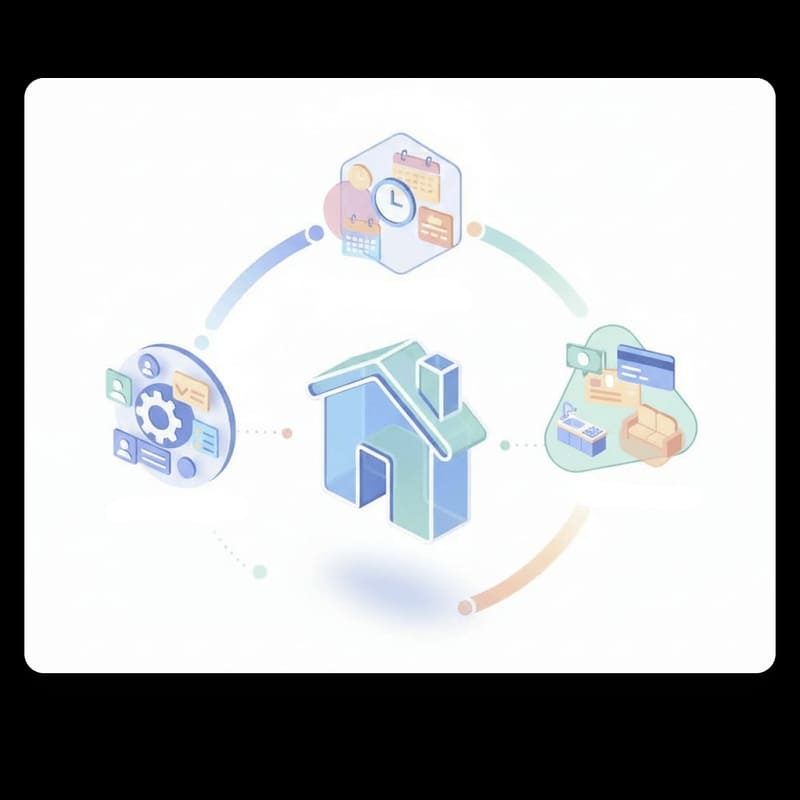
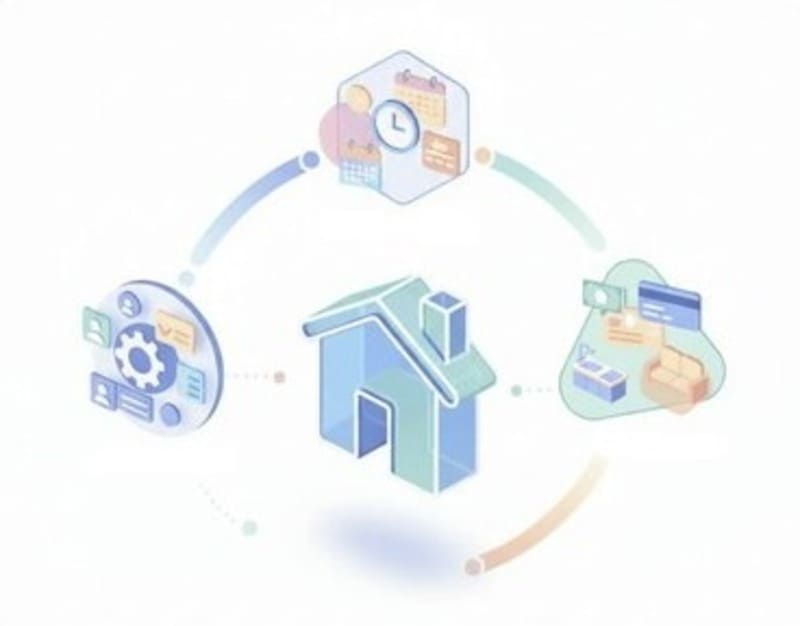
Documentación actualizada e imágenes arregladas.

diff --git a/frontend/docs/design/DOCUMENTACION.md b/frontend/docs/design/DOCUMENTACION.md
@@ -1567,11 +1567,15 @@ Además del formato JPG, también he utilizado SVG, ya que permite que las imág
 
 - [https://imagitool.com/resize-image](https://imagitool.com/resize-image)
 
-He utilizado está pagina web para cambiar las dimensiones de las imagenes, además permite elegir el formato de dicha imagen (jpg).
+He utilizado está pagina web para cambiar las dimensiones de las imagenes, además permite elegir el formato de dicha imagen (he utilizado jpg y webp).
+
+- [https://convertio.co/es/](https://convertio.co/es/)
+
+Como la página anterior no tenía el formato avif también he utilizado esta para convertir las imágenes webp redimensionadas a formato avif.
 
 - [https://jakearchibald.github.io/svgomg/](https://jakearchibald.github.io/svgomg/)
 
-He utilizado está pagina web para comprimir los iconos svg para reducir su tamaño.
+He utilizado está pagina web para optimizar los iconos svg y reducir su tamaño.
 
 - [https://www.iloveimg.com/es/comprimir-imagen](https://www.iloveimg.com/es/comprimir-imagen)
 
@@ -1581,11 +1585,11 @@ He utilizado está pagina web para comprimir las imágenes jpg y reducir su tama
 
 | Imagen | Tamaño original | Tamaño (400px) | Tamaño optimizado (400px) | Reducción (400px) (%) | Tamaño (800px) | Tamaño optimizado (800px) | Reducción (800px) (%) | Tamaño (1200px) | Tamaño optimizado (1200px) | Reducción (1200px) (%) |
 |---|---:|---:|---:|---:|---:|---:|---:|---:|---:|---:|
-| `inicio.jpg` | 292 KB | 46.87 KB | 9.02 KB | 81% | 157.12 KB | 22.07 KB | 86% | 339.63 KB | 37.70 KB | 89% |
-| `img2.jpg` | 5.4 MB | 91.64 KB | 15.48 KB | 84% | 275.33 KB | 45.90 KB | 84% | 541.01 KB | 87.23 KB | 84% |
-| `for1.jpg` | 2.3 MB | 31.44 KB | 16.66 KB | 48% | 98.22 KB | 49.27 KB | 50% | 196.77 KB | 89.56 KB | 55% |
-| `for2.jpg` | 4.4 MB | 39.70 KB | 13.27 KB | 67% | 81.47 KB | 35.45 KB | 57% | 419.83 KB | 58.24 KB | 87% |
-| `fondo.jpg` | 828.6 KB | 78.99 KB | 16.30 KB | 80% | 252.39 KB | 43.97 KB | 83% | 493.93 KB | 74.14 KB | 85% |
+| `inicio.jpg` | 293 KB | 14.33 KB | 6.94 KB | 52% | 36.90 KB | 16.82 KB | 55% | 63.39 KB | 28.55 KB | 55% |
+| `img2.jpg` | 5.4 MB | 42.52 KB | 14.52 KB | 66% | 98.77 KB | 44.13 KB | 56% | 180.60 KB | 86.28 KB | 53% |
+| `for1.jpg` | 2.3 MB | 29.77 KB | 45.91 KB | 51% | 92.75 KB | 45.91 KB | 51% | 188.23 KB | 85.75 KB | 55% |
+| `for2.jpg` | 4.4 MB | 38.08 KB | 12.13 KB | 69% | 76.36 KB | 32.15 KB | 58% | 127.82 KB | 56.39 KB | 56% |
+| `fondo.jpg` | 828.6 KB | 28.46 KB | 15.61 KB | 46% | 77.52 KB | 41.88 KB | 46% | 140.33 KB | 73.48 KB | 48% |
 
 ### 5.4 Tecnologías implementadas
 En el proyecto hemos utilizado técnicas modernas de entrega de imágenes para mejorar rendimiento, adaptabilidad y accesibilidad.
